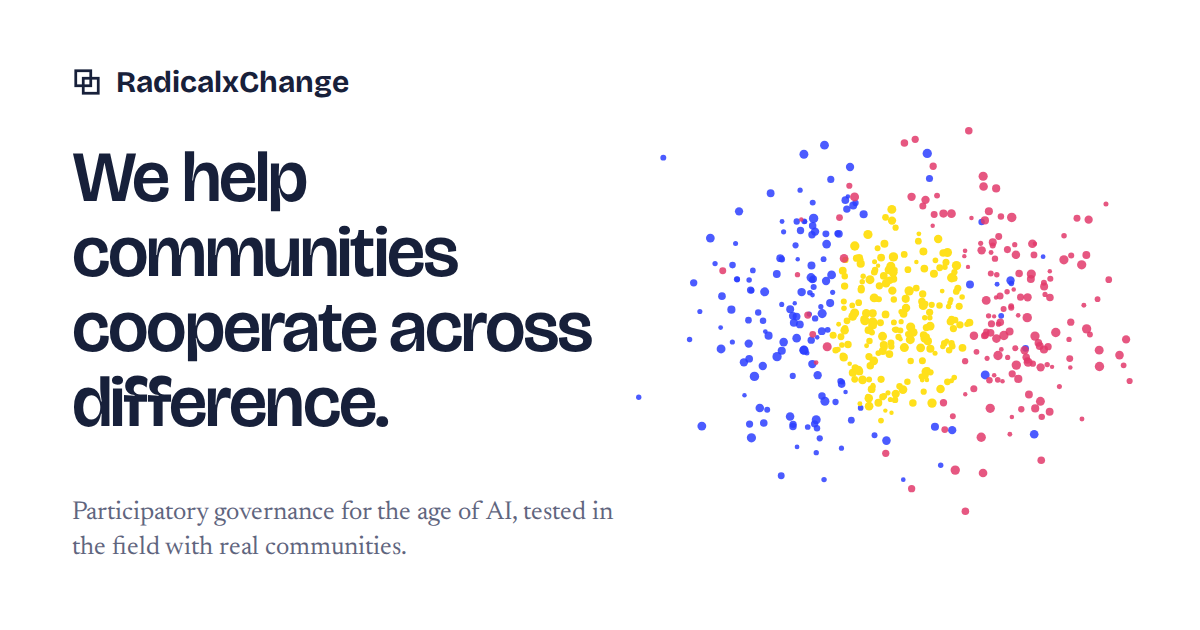
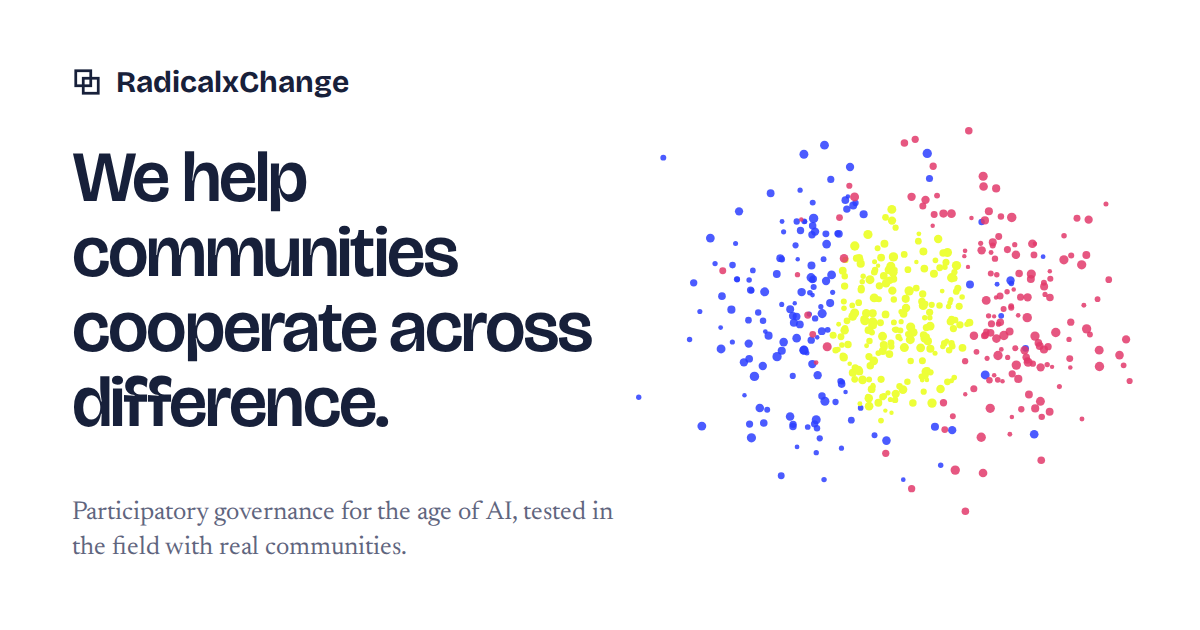
Add files via upload

Changed region(s): [[0.6783, 0.3619, 0.8017, 0.6635], [0.74, 0.3317, 0.7708, 0.3619]]

diff --git a/src/site/assets/rxc.css b/src/site/assets/rxc.css
@@ -9,7 +9,7 @@
   --paper:#FFFFFF;
   --voice-a:#2B3EFF;
   --voice-b:#E23A6B;
-  --common:#FFE01B;
+  --common:#EDFF38;
   --quiet:#5F657E;
   --hair:#D9DBE3;
   --tint:#F4F5F8;
@@ -51,11 +51,11 @@ p{margin:0 0 1rem}
 nav.primary ul{display:flex;gap:1.4rem;align-items:center;list-style:none;margin:0;padding:0}
 nav.primary a{text-decoration:none;font-family:var(--display);font-size:.95rem}
 nav.primary a:hover{text-decoration:underline;text-underline-offset:.35em}
-.menu{display:none}
-.menu summary{list-style:none;cursor:pointer;font-family:var(--display);font-weight:600;font-size:.95rem;border:2px solid var(--ink);padding:.6rem .9rem;line-height:1}
-.menu summary::-webkit-details-marker{display:none}
-.menu ul{list-style:none;margin:0;padding:1rem var(--gutter) 1.5rem;position:absolute;left:0;right:0;top:100%;background:var(--paper);border-bottom:2px solid var(--ink);display:grid;gap:.9rem}
-.menu a{text-decoration:none;font-family:var(--display);font-size:1.15rem;font-weight:600}
+.mnav{display:none}
+.mnav summary{list-style:none;cursor:pointer;font-family:var(--display);font-weight:600;font-size:.95rem;border:2px solid var(--ink);padding:.6rem .9rem;line-height:1}
+.mnav summary::-webkit-details-marker{display:none}
+.mnav ul{list-style:none;margin:0;padding:1rem var(--gutter) 1.5rem;position:absolute;left:0;right:0;top:100%;background:var(--paper);border-bottom:2px solid var(--ink);display:grid;gap:.9rem}
+.mnav a{text-decoration:none;font-family:var(--display);font-size:1.15rem;font-weight:600}
 
 /* Hero */
 .hero .wrap{display:grid;grid-template-columns:minmax(0,7fr) minmax(0,5fr);gap:var(--gutter);padding-top:clamp(3rem,7vw,6rem);padding-bottom:clamp(3rem,6vw,5rem);align-items:center}
@@ -163,7 +163,7 @@ footer .legal ul{display:flex;gap:1.25rem}
 
 @media (max-width:960px){
   nav.primary{display:none}
-  .menu{display:block;position:static}
+  .mnav{display:block;position:static}
   .bar{position:relative}
   .hero .wrap{grid-template-columns:1fr}
   .hero h1{max-width:none}
@@ -248,7 +248,7 @@ footer .legal ul{display:flex;gap:1.25rem}
 
 /* ---- coexistence with legacy Tailwind preflight ---- */
 a{text-decoration:underline;text-underline-offset:.2em}
-nav.primary a,.menu a,.mark,.btn,.live .title,.list li a,.posts a,.next dd a,footer ul a,.chapters a,.crumbs a{text-decoration:none}
+nav.primary a,.mnav a,.mark,.btn,.live .title,.list li a,.posts a,.next dd a,footer ul a,.chapters a,.crumbs a{text-decoration:none}
 footer .legal a{text-decoration:none}
 img,video,iframe{max-width:100%}
 
@@ -322,3 +322,21 @@ body>div.grid,body>section.grid,body>main.grid{max-width:var(--wrap);margin-left
 .comms details[open] summary{text-decoration:none;color:var(--quiet)}
 .comms details .contact{margin-top:.4rem}
 .article header h1[data-pagefind-weight]{}
+
+/* ---- brand ---- */
+@font-face{font-family:"Messer";src:url("/fonts/hinted-MesserV20-Condensed.woff2") format("woff2"),url("/fonts/hinted-MesserV20-Condensed.woff") format("woff");font-weight:400;font-display:swap}
+.mark .word{font-family:"Messer","Bricolage Grotesque",sans-serif;font-weight:400;text-transform:uppercase;font-size:1.55rem;letter-spacing:.01em;line-height:1;position:relative;top:.06em}
+.mark .word em{font-style:normal;text-transform:none}
+.prose a,.more,.list li a:hover,.posts a:hover,.live .title:hover,.next dd a:hover,.chapters a:hover{text-decoration-color:var(--common);text-decoration-thickness:2px;text-underline-offset:.2em}
+.prose a:hover,.more:hover{text-decoration-color:var(--ink)}
+/* mobile header: keep the menu button inside the bar */
+.mnav{display:none;align-items:center}
+.mnav summary{display:inline-flex;align-items:center;height:2.5rem;padding:0 .9rem;margin:0;line-height:1}
+@media (max-width:960px){.mnav{display:flex}.bar .wrap{min-height:3.75rem;padding-top:.5rem;padding-bottom:.5rem}}
+/* small screens: let long titles and metadata wrap */
+@media (max-width:640px){
+  .list .meta,.live .status,.live .place,.chapters .meta,.posts .meta{white-space:normal}
+  .list li a,.posts a,.live .title,h1,h2,h3{overflow-wrap:anywhere}
+  .section-head{display:block}.section-head .more{display:inline-block;margin-top:.75rem}
+  .page-hero .aside{max-width:none}
+}

diff --git a/src/site/assets/field.js b/src/site/assets/field.js
@@ -2,7 +2,7 @@
   function rng(seed){let h=1779033703^seed.length;for(let i=0;i<seed.length;i++){h=Math.imul(h^seed.charCodeAt(i),3432918353);h=(h<<13)|(h>>>19);}return function(){h=Math.imul(h^(h>>>16),2246822507);h=Math.imul(h^(h>>>13),3266489909);h^=h>>>16;return(h>>>0)/4294967296;};}
   function gauss(r){let u=0,v=0;while(u===0)u=r();while(v===0)v=r();return Math.sqrt(-2*Math.log(u))*Math.cos(2*Math.PI*v);}
   function makePoints(seed,n,spread){const r=rng(seed),pts=[];for(let i=0;i<n;i++){pts.push({dx:gauss(r)*spread,dy:gauss(r)*spread,cluster:i<n/2?'a':'b',size:1.6+r()*1.8});}return pts;}
-  const A='#2B3EFF',B='#E23A6B',C='#FFE01B';
+  const A='#2B3EFF',B='#E23A6B',C='#EDFF38';
   function render(svg,pts,ca,cb,radius){
     let out='';
     for(const p of pts){
